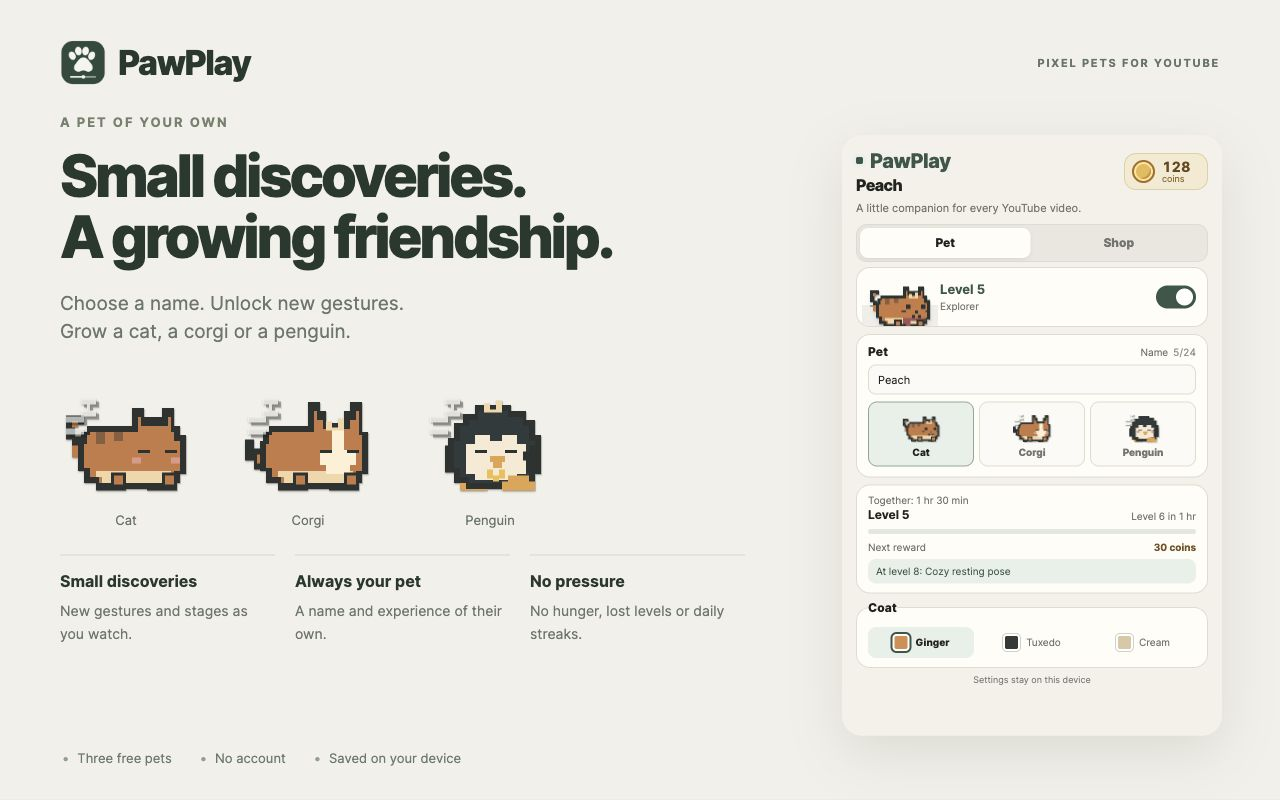
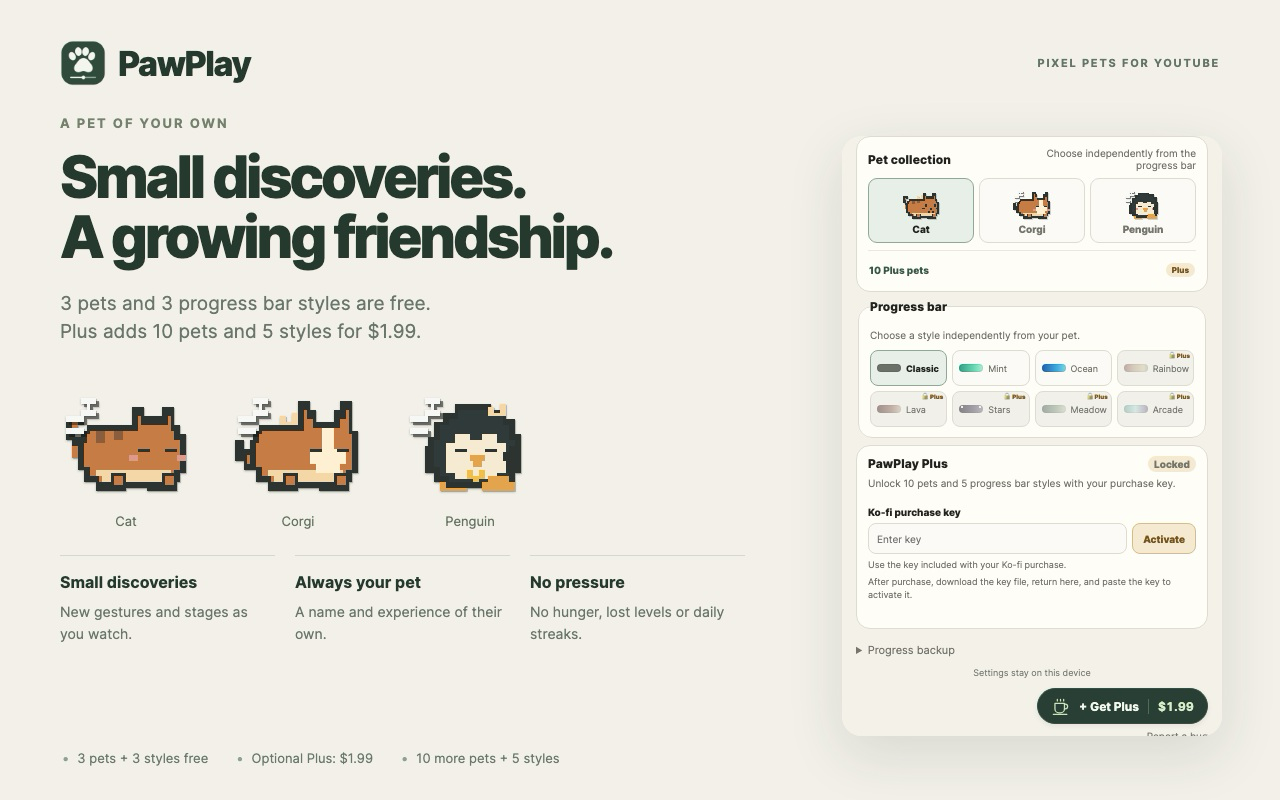
feat(site): publish PawPlay Plus details

diff --git a/privacy.html b/privacy.html
@@ -1,1 +1,48 @@
-<!doctype html><html lang="en"><head><meta charset="utf-8"><meta name="viewport" content="width=device-width,initial-scale=1"><title>PawPlay | Privacy policy</title><meta name="description" content="How PawPlay handles pet progress and YouTube player state locally, plus information about this GitHub Pages website."><meta name="theme-color" content="#355f48"><link rel="icon" href="assets/icon.png"><link rel="stylesheet" href="styles.css"><link rel="canonical" href="https://n23eos.github.io/pawplay-site/privacy.html"></head><body><a class="skip" href="#main">Skip to content</a><div class="shell"><header><a class="brand" href="./"><img src="assets/icon.png" width="38" height="38" alt="">PawPlay</a><nav aria-label="Navigation"><a href="./">Home</a><a href="./#support">Support</a><a href="ru/" lang="ru">Русский</a></nav></header><main class="policy" id="main"><h1>PawPlay Privacy Policy</h1><p class="date">Effective date: October 6, 2026</p><p>PawPlay processes YouTube player state and extension data locally in the browser. No browsing data or other user data is transmitted to or received by the developer through PawPlay.</p><h2>Data stored on the device</h2><p>PawPlay uses <code>chrome.storage.local</code> to save the extension&#x27;s enabled state, selected pet and color, pet names, active watch time, levels, earned coins, level reward records, purchased items, and equipped accessories and effects. This information stays in the Chrome profile on the device and is not stored through <code>chrome.storage.sync</code>.</p><p>PawPlay does not store video titles, video URLs, browsing history, search terms, or the content of videos. Among playback-related information, it stores only the local active watch time needed for pet progress and rewards.</p><h2>YouTube page access</h2><p>PawPlay runs on <code>https://www.youtube.com/*</code> so it can place the pet next to the video controls and detect local player state, including play, pause, buffering, seeking, advertisements, ordinary video duration, and unsupported live playback. This processing happens on the device. Video titles and URLs are not sent to the developer or to a server.</p><h2>Network activity and third parties</h2><p>PawPlay has no account system, analytics, telemetry, advertising, external API, or developer-operated server. It does not transmit extension data to the developer or third parties. It does not offer real-money payments.</p><h2>Product website</h2><p>The PawPlay product website is hosted on GitHub Pages. Visiting the website is subject to GitHub&#x27;s hosting practices described in the <a href="https://docs.github.com/en/site-policy/privacy-policies/github-general-privacy-statement">GitHub Privacy Statement</a>. The website does not load analytics or tracking scripts and does not receive data from the PawPlay extension.</p><h2>Limited use</h2><p>PawPlay uses locally handled data only to provide the visible pet, progression, and cosmetic collection features. It complies with the Chrome Web Store User Data Policy, including its Limited Use requirements. Data is not sold, used for advertising, transferred to third parties, or used for creditworthiness or lending decisions.</p><h2>Control and deletion</h2><p>Settings can be changed in the extension popup. Removing PawPlay from Chrome deletes its extension storage under Chrome&#x27;s normal extension removal behavior. Removing and reinstalling the extension starts it again with fresh local data.</p><h2>Changes</h2><p>If PawPlay&#x27;s data practices change, this policy will be updated before the changed behavior is released. The effective date above identifies the current version of this policy.</p><h2>Contact</h2><p>For questions about this policy, open an issue at <a href="https://github.com/n23eos/pawplay-site/issues">PawPlay support</a>. GitHub issues are public, so do not include private browsing data, passwords, or other sensitive information.</p></main><footer><div class="footer-top"><span>PawPlay · Your progress stays local.</span><div class="footer-links"><a href="./">Home</a><a href="https://github.com/n23eos/pawplay-site/issues">Support</a></div></div></footer></div></body></html>
+<!doctype html>
+<html lang="en">
+<head>
+  <meta charset="utf-8">
+  <meta name="viewport" content="width=device-width,initial-scale=1">
+  <title>PawPlay | Privacy policy</title>
+  <meta name="description" content="How PawPlay handles pet progress, local activation, backups, and YouTube player state, plus information about external links.">
+  <meta name="theme-color" content="#355f48">
+  <link rel="icon" href="assets/icon.png">
+  <link rel="stylesheet" href="styles.css">
+  <link rel="canonical" href="https://n23eos.github.io/pawplay-site/privacy.html">
+</head>
+<body>
+  <a class="skip" href="#main">Skip to content</a>
+  <div class="shell">
+    <header>
+      <a class="brand" href="./"><img src="assets/icon.png" width="38" height="38" alt="">PawPlay</a>
+      <nav aria-label="Navigation"><a href="./">Home</a><a href="./#support">Support</a><a href="ru/" lang="ru">Русский</a></nav>
+    </header>
+    <main class="policy" id="main">
+      <h1>PawPlay Privacy Policy</h1>
+      <p class="date">Effective date: October 7, 2026</p>
+      <p>PawPlay processes YouTube player state and extension data locally in the browser. It does not automatically transmit browsing data or stored extension data. If you choose to open and submit the external feedback form, the developer can receive the information you voluntarily provide there.</p>
+      <h2>Data stored on the device</h2>
+      <p>PawPlay uses <code>chrome.storage.local</code> to save the extension&#x27;s enabled state, selected pet and color, selected progress bar style, pet names, active watch time, levels, earned coins, level reward records, purchased items, equipped accessories and effects, and a Boolean showing whether PawPlay Plus is activated in this installation. The purchase key is checked locally and is not stored.</p>
+      <p>For reliable updates and restores, PawPlay can keep local migration and pre-restore recovery snapshots. It also keeps a bounded watch-credit session ledger with random session identifiers, Chrome tab, window, and document identifiers, sequence and status values, timestamps, and credited seconds. These records do not contain video titles or URLs and remain in the extension&#x27;s local storage.</p>
+      <p>PawPlay does not store video titles, video URLs, browsing history, search terms, or the content of videos. Among playback-related information, it stores only the local active watch time and session data needed to preserve progress and prevent duplicate rewards.</p>
+      <p>When you choose Save backup, PawPlay prepares a JSON file containing settings, pet names, progress, coins, purchases, and equipped items. The manual backup does not contain the Plus purchase key, Plus activation status, video titles, or video URLs. You control the downloaded file and where it is kept.</p>
+      <h2>YouTube page access</h2>
+      <p>PawPlay runs on <code>https://www.youtube.com/*</code> so it can place the pet next to the controls of ordinary videos and detect local player state, including play, pause, buffering, seeking, advertisements, and video duration. The pet and watch credit are unavailable on Shorts, live streams, and embedded players. This processing happens on the device. Video titles and URLs are not sent to the developer or to a server.</p>
+      <h2>Network activity and external services</h2>
+      <p>PawPlay has no account system, advertising, automatic analytics or telemetry, external API, or developer-operated server. It does not automatically transmit extension data to the developer or third parties.</p>
+      <p>The popup contains links to an optional PawPlay Plus product on Ko-fi and a feedback form on Google Forms. PawPlay Plus is a one-time $1.99 purchase made outside the extension. Ko-fi handles the purchase and key delivery. When you choose either link, the external page opens in a new tab and is governed by that service&#x27;s privacy practices. PawPlay does not attach its stored extension data to these links. Information entered on Ko-fi is provided to Ko-fi. A report type, description, optional reproduction steps, environment details, and optional email address that you enter and submit through Google Forms are received by Google and made available to the developer as the form recipient. The developer uses that information only to investigate the report, provide support, and reply when requested. Key verification and activation happen locally after you enter the key in PawPlay.</p>
+      <h2>Product website</h2>
+      <p>The PawPlay product website is hosted on GitHub Pages. Visiting the website is subject to GitHub&#x27;s hosting practices described in the <a href="https://docs.github.com/en/site-policy/privacy-policies/github-general-privacy-statement">GitHub Privacy Statement</a>. The website does not load analytics or tracking scripts and does not receive data from the PawPlay extension.</p>
+      <h2>Limited use</h2>
+      <p>PawPlay uses locally handled data only to provide the visible pet, progression, cosmetic collection, backup, and local activation features. It complies with the Chrome Web Store User Data Policy, including its Limited Use requirements. Stored extension data is not sold, used for advertising, transferred to third parties, or used for creditworthiness or lending decisions.</p>
+      <h2>Control and deletion</h2>
+      <p>Settings can be changed in the extension popup. You can manually save or restore a progress backup there. The backup is not a Plus license backup, so keep the purchase key separately if you need to activate Plus again. Removing PawPlay from Chrome deletes its extension storage, including local recovery snapshots, the session ledger, and activation status, under Chrome&#x27;s normal extension removal behavior. A downloaded backup file remains wherever you saved it.</p>
+      <h2>Changes</h2>
+      <p>If PawPlay&#x27;s data practices change, this policy will be updated before the changed behavior is released. The effective date above identifies the current version of this policy.</p>
+      <h2>Contact</h2>
+      <p>For questions about this policy, open an issue at <a href="https://github.com/n23eos/pawplay-site/issues">PawPlay support</a>. GitHub issues are public, so do not include private browsing data, passwords, or other sensitive information.</p>
+    </main>
+    <footer><div class="footer-top"><span>PawPlay · Your progress stays local.</span><div class="footer-links"><a href="./">Home</a><a href="https://github.com/n23eos/pawplay-site/issues">Support</a></div></div></footer>
+  </div>
+</body>
+</html>

diff --git a/ru/index.html b/ru/index.html
@@ -1,9 +1,10 @@
 <!doctype html>
-<html lang="ru"><head><meta charset="utf-8"><meta name="viewport" content="width=device-width,initial-scale=1"><title>PawPlay | Маленький спутник каждого YouTube видео</title><meta name="description" content="Бесплатный пиксельный кот, корги или пингвин на полоске YouTube. Растите питомца, получайте монеты и собирайте украшения. Прогресс хранится на устройстве."><meta name="theme-color" content="#355f48"><link rel="icon" href="../assets/icon.png"><link rel="stylesheet" href="../styles.css"><link rel="alternate" hreflang="en" href="https://n23eos.github.io/pawplay-site/"><link rel="alternate" hreflang="ru" href="https://n23eos.github.io/pawplay-site/ru/"><link rel="canonical" href="https://n23eos.github.io/pawplay-site/ru/"></head>
+<html lang="ru"><head><meta charset="utf-8"><meta name="viewport" content="width=device-width,initial-scale=1"><title>PawPlay | Маленький спутник для обычных видео YouTube</title><meta name="description" content="Три бесплатных пиксельных питомца и стиля полоски для обычных видео YouTube, а также необязательный PawPlay Plus. Прогресс хранится на устройстве."><meta name="theme-color" content="#355f48"><link rel="icon" href="../assets/icon.png"><link rel="stylesheet" href="../styles.css"><link rel="alternate" hreflang="en" href="https://n23eos.github.io/pawplay-site/"><link rel="alternate" hreflang="ru" href="https://n23eos.github.io/pawplay-site/ru/"><link rel="canonical" href="https://n23eos.github.io/pawplay-site/ru/"></head>
 <body><a class="skip" href="#main">Перейти к содержимому</a><div class="shell"><header><a class="brand" href="./" aria-label="PawPlay"><img src="../assets/icon.png" width="38" height="38" alt="">PawPlay</a><nav aria-label="Навигация"><a class="desktop" href="#pets">Как это работает</a><a class="desktop" href="#support">Поддержка</a><a href="../" lang="en">English</a></nav></header>
-<main id="main"><section class="hero"><div class="hero-copy"><p class="eyebrow">Пиксельные питомцы для YouTube</p><h1>Маленький спутник<br>каждого видео.</h1><p class="lead">Кот, корги или пингвин гуляет по полоске воспроизведения YouTube. Дайте ему имя, смотрите видео вместе и наблюдайте, как он растет.</p><div class="actions"><a class="button" href="#pets">Познакомиться с питомцами</a><span class="status">Скоро в Chrome Web Store</span></div><div class="facts"><span>Три бесплатных питомца</span><span>Без аккаунта</span><span>Прогресс на устройстве</span></div></div><img class="hero-image" src="../assets/overview-ru.png" width="1280" height="800" alt="Пиксельные питомцы PawPlay на полоске видео и меню расширения" fetchpriority="high"></section>
+<main id="main"><section class="hero"><div class="hero-copy"><p class="eyebrow">Пиксельные питомцы для YouTube</p><h1>Маленький спутник<br>для обычных видео.</h1><p class="lead">Кот, корги или пингвин гуляет по полоске воспроизведения обычных видео YouTube. Дайте ему имя, смотрите видео вместе и наблюдайте, как он растет.</p><div class="actions"><a class="button" href="#pets">Познакомиться с питомцами</a><span class="status">Скоро в Chrome Web Store</span></div><div class="facts"><span>Три бесплатных питомца</span><span>Три бесплатных стиля</span><span>Прогресс на устройстве</span></div></div><img class="hero-image" src="../assets/overview-ru.png" width="1280" height="800" alt="Пиксельные питомцы PawPlay на полоске видео и меню расширения" fetchpriority="high"></section>
 <section class="section" id="pets"><h2>Ваши видео. Их маленький мир.</h2><p class="section-intro">Выберите питомца. Он будет рядом, пока воспроизводится обычное видео на YouTube.</p><div class="steps"><article class="step"><span class="number">01</span><h3>Выберите друга</h3><p>Кот, корги или пингвин? Все трое бесплатны. У каждого свое имя, уровень и развитие.</p></article><article class="step"><span class="number">02</span><h3>Растите вместе</h3><p>Активный просмотр помогает питомцу расти. Он осваивает маленькие жесты и превращается из малыша в компаньона. На паузе он отдыхает.</p></article><article class="step"><span class="number">03</span><h3>Добавьте характер</h3><p>Получайте монету за каждые пять минут просмотра и бонусы за уровни. Собирайте шарф, бант, корону, след, звезды и сердечки.</p></article></div></section>
 <section class="section"><h2>Маленькие детали. Свой характер.</h2><p class="section-intro">Отдельный рост каждого питомца, общая коллекция и уютное меню.</p><div class="gallery"><figure><img src="../assets/growth-ru.png" width="1280" height="800" alt="Меню PawPlay с уровнем питомца, стадией роста, следующей наградой и выбором окраса" loading="lazy"><figcaption>Имя, уровень и новые повадки по мере роста питомца.</figcaption></figure><figure><img src="../assets/shop-ru.png" width="1280" height="800" alt="Магазин PawPlay с монетами, шарфом, бантом, короной, следом, звездами и сердечками" loading="lazy"><figcaption>Собирайте аксессуары и эффекты за заработанные игровые монеты.</figcaption></figure></div></section>
+<section class="section"><h2>Начните бесплатно. Добавьте Plus.</h2><p class="section-intro">В бесплатной версии доступны три питомца и три стиля полоски. PawPlay Plus подключается по желанию.</p><div class="steps"><article class="step"><span class="number">3</span><h3>Бесплатные питомцы и стили</h3><p>Кот, корги, пингвин и три стиля полоски доступны сразу. Игровые монеты по-прежнему открывают украшения и эффекты, купить их за деньги нельзя.</p></article><article class="step"><span class="number">+</span><h3>10 питомцев и 5 стилей</h3><p>PawPlay Plus добавляет десять пиксельных питомцев и пять стилей полоски. Это разовая покупка за $1.99 на Ko-fi вне расширения.</p></article><article class="step"><span class="number">✓</span><h3>Офлайн-активация</h3><p>Ключ проверяется локально. Для активации не нужны аккаунт и интернет. Сохраните ключ отдельно для переустановки или другого профиля Chrome.</p></article></div></section>
 <aside class="calm"><div><h3>Рад видеть. Готов подождать.</h3><p>Без голода, смерти и обязательных серий дней. Перерыв не отнимает прогресс. Купить игровые монеты за реальные деньги нельзя.</p></div><div><h3>Все остается рядом с вами.</h3><p>Имена, прогресс, монеты и предметы хранятся в профиле Chrome на этом устройстве. В расширении нет аккаунта, рекламы, аналитики и телеметрии.</p></div></aside>
 <section class="section support" id="support"><div><h2>Нужна помощь?</h2><p>Сообщите об ошибке или предложите нового питомца на GitHub. Для ошибки укажите версию браузера и что произошло. Не отправляйте пароли и приватные данные просмотра.</p></div><a class="button" href="https://github.com/n23eos/pawplay-site/issues">Открыть поддержку</a></section></main>
-<footer><div class="footer-top"><span>PawPlay · Для маленьких уютных моментов.</span><div class="footer-links"><a href="../privacy.html">Конфиденциальность</a><a href="https://github.com/n23eos/pawplay-site">GitHub</a></div></div><p>PawPlay - независимое расширение Chrome. Оно не связано с YouTube или Google, не одобрено и не спонсируется ими. Прямые эфиры пока не поддерживаются.</p></footer></div></body></html>
+<footer><div class="footer-top"><span>PawPlay · Для маленьких уютных моментов.</span><div class="footer-links"><a href="../privacy.html">Конфиденциальность</a><a href="https://github.com/n23eos/pawplay-site">GitHub</a></div></div><p>PawPlay - независимое расширение Chrome. Оно не связано с YouTube или Google, не одобрено и не спонсируется ими. Shorts, прямые эфиры и встроенные плееры не поддерживаются.</p></footer></div></body></html>

diff --git a/index.html b/index.html
@@ -1,9 +1,10 @@
 <!doctype html>
-<html lang="en"><head><meta charset="utf-8"><meta name="viewport" content="width=device-width,initial-scale=1"><title>PawPlay | A little companion for every YouTube video</title><meta name="description" content="A free pixel cat, corgi, or penguin on your YouTube progress bar. Raise your pet, earn coins, and collect accessories. Your progress stays on your device."><meta name="theme-color" content="#355f48"><link rel="icon" href="assets/icon.png"><link rel="stylesheet" href="styles.css"><link rel="alternate" hreflang="en" href="https://n23eos.github.io/pawplay-site/"><link rel="alternate" hreflang="ru" href="https://n23eos.github.io/pawplay-site/ru/"><link rel="canonical" href="https://n23eos.github.io/pawplay-site/"></head>
+<html lang="en"><head><meta charset="utf-8"><meta name="viewport" content="width=device-width,initial-scale=1"><title>PawPlay | A little companion for ordinary YouTube videos</title><meta name="description" content="Three free pixel pets and progress bar styles for ordinary YouTube videos, with optional PawPlay Plus. Your progress stays on your device."><meta name="theme-color" content="#355f48"><link rel="icon" href="assets/icon.png"><link rel="stylesheet" href="styles.css"><link rel="alternate" hreflang="en" href="https://n23eos.github.io/pawplay-site/"><link rel="alternate" hreflang="ru" href="https://n23eos.github.io/pawplay-site/ru/"><link rel="canonical" href="https://n23eos.github.io/pawplay-site/"></head>
 <body><a class="skip" href="#main">Skip to content</a><div class="shell"><header><a class="brand" href="./" aria-label="PawPlay"><img src="assets/icon.png" width="38" height="38" alt="">PawPlay</a><nav aria-label="Navigation"><a class="desktop" href="#pets">How it works</a><a class="desktop" href="#support">Support</a><a href="ru/" lang="ru">Русский</a></nav></header>
-<main id="main"><section class="hero"><div class="hero-copy"><p class="eyebrow">Pixel pets for YouTube</p><h1>A little companion.<br>For every video.</h1><p class="lead">A cat, a corgi, or a penguin walks along your YouTube progress bar. Give it a name and let it grow while you watch.</p><div class="actions"><a class="button" href="#pets">Meet your companion</a><span class="status">Coming to Chrome Web Store</span></div><div class="facts"><span>Three free pets</span><span>No account</span><span>Saved on your device</span></div></div><img class="hero-image" src="assets/overview-en.png" width="1280" height="800" alt="PawPlay pixel pets walking on a video progress bar, with the extension menu" fetchpriority="high"></section>
+<main id="main"><section class="hero"><div class="hero-copy"><p class="eyebrow">Pixel pets for YouTube</p><h1>A little companion.<br>For ordinary videos.</h1><p class="lead">A cat, a corgi, or a penguin walks along the progress bar on ordinary YouTube videos. Give it a name and let it grow while you watch.</p><div class="actions"><a class="button" href="#pets">Meet your companion</a><span class="status">Coming to Chrome Web Store</span></div><div class="facts"><span>Three free pets</span><span>Three free bar styles</span><span>Saved on your device</span></div></div><img class="hero-image" src="assets/overview-en.png" width="1280" height="800" alt="PawPlay pixel pets walking on a video progress bar, with the extension menu" fetchpriority="high"></section>
 <section class="section" id="pets"><h2>Your videos. Their little world.</h2><p class="section-intro">Choose a pet once. It keeps you company whenever an ordinary YouTube video is playing.</p><div class="steps"><article class="step"><span class="number">01</span><h3>Pick a friend</h3><p>Cat, corgi, or penguin? All three are free. Each has its own name, level, and growth.</p></article><article class="step"><span class="number">02</span><h3>Grow together</h3><p>Playing videos adds active watch time. Your pet learns little gestures and grows from baby to companion. Pause, and it rests.</p></article><article class="step"><span class="number">03</span><h3>Make it yours</h3><p>Earn a game coin every five minutes, plus level bonuses. Spend them on a scarf, bow, crown, trails, stars, or hearts.</p></article></div></section>
 <section class="section"><h2>Small details, more personality.</h2><p class="section-intro">Individual growth, a shared collection, and a cozy place to check in.</p><div class="gallery"><figure><img src="assets/growth-en.png" width="1280" height="800" alt="PawPlay menu showing a pet level, growth stage, next reward, and colors" loading="lazy"><figcaption>A name, a level, and a little more personality as your pet grows.</figcaption></figure><figure><img src="assets/shop-en.png" width="1280" height="800" alt="PawPlay shop with coin balance, scarves, bows, crowns, trails, stars, and hearts" loading="lazy"><figcaption>Collect accessories and effects with earned game coins.</figcaption></figure></div></section>
+<section class="section"><h2>Start free. Add more with Plus.</h2><p class="section-intro">The free version includes three pets and three progress bar styles. PawPlay Plus is optional.</p><div class="steps"><article class="step"><span class="number">3</span><h3>Free pets and bars</h3><p>Cat, corgi, penguin, and three progress bar styles are included. Game coins still unlock accessories and effects and cannot be bought with money.</p></article><article class="step"><span class="number">+</span><h3>10 pets and 5 bars</h3><p>PawPlay Plus adds ten pixel pets and five progress bar styles as a one-time $1.99 purchase on Ko-fi outside the extension.</p></article><article class="step"><span class="number">✓</span><h3>Offline activation</h3><p>The purchase key is checked locally. No account or internet connection is needed to activate it. Keep the key separately for a reinstall or another Chrome profile.</p></article></div></section>
 <aside class="calm"><div><h3>Happy to see you. Happy to wait.</h3><p>No hunger, no death, no daily streaks. Taking a break never costs your pet progress. Game coins cannot be bought with money.</p></div><div><h3>Your companion stays local.</h3><p>Pet names, progress, coins, and items stay in your Chrome profile on this device. The extension has no accounts, ads, analytics, or telemetry.</p></div></aside>
 <section class="section support" id="support"><div><h2>Need a hand?</h2><p>Report a problem or suggest a pet on GitHub. For a bug, include your browser version and what happened. Never share passwords or private browsing data.</p></div><a class="button" href="https://github.com/n23eos/pawplay-site/issues">Get support</a></section></main>
-<footer><div class="footer-top"><span>PawPlay · Made for small moments.</span><div class="footer-links"><a href="privacy.html">Privacy policy</a><a href="https://github.com/n23eos/pawplay-site">GitHub</a></div></div><p>PawPlay is an independent Chrome extension, not affiliated with, endorsed by, or sponsored by YouTube or Google. Live streams are currently unsupported.</p></footer></div></body></html>
+<footer><div class="footer-top"><span>PawPlay · Made for small moments.</span><div class="footer-links"><a href="privacy.html">Privacy policy</a><a href="https://github.com/n23eos/pawplay-site">GitHub</a></div></div><p>PawPlay is an independent Chrome extension, not affiliated with, endorsed by, or sponsored by YouTube or Google. Shorts, live streams, and embedded players are unsupported.</p></footer></div></body></html>
